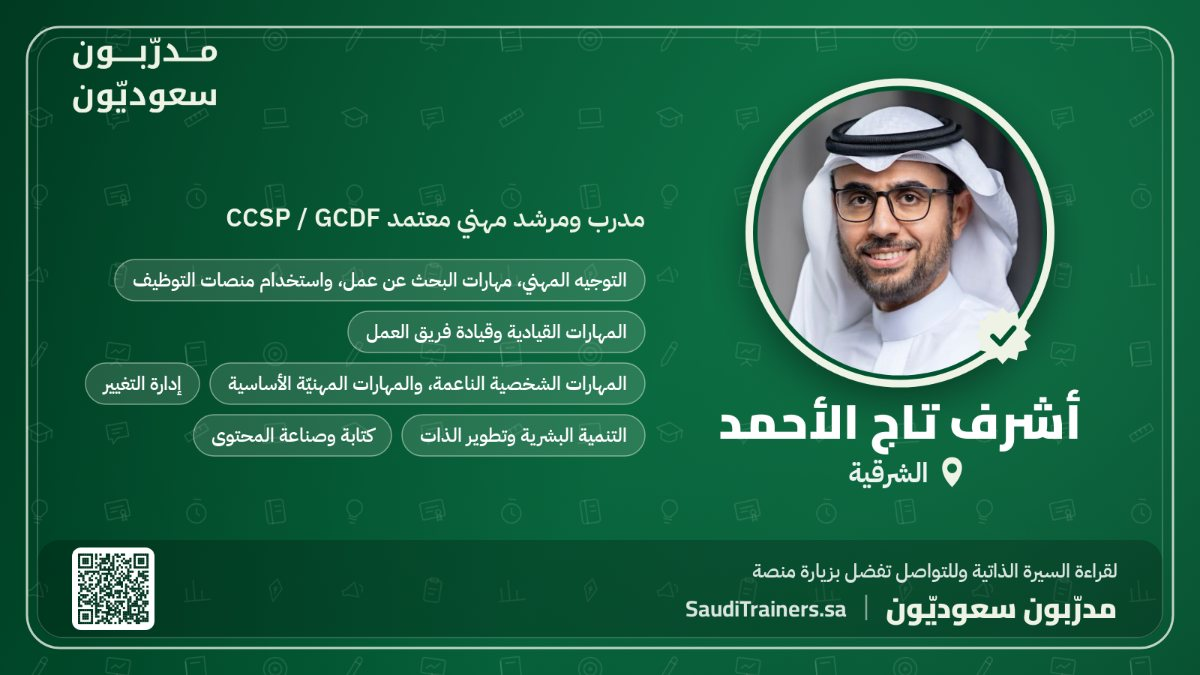
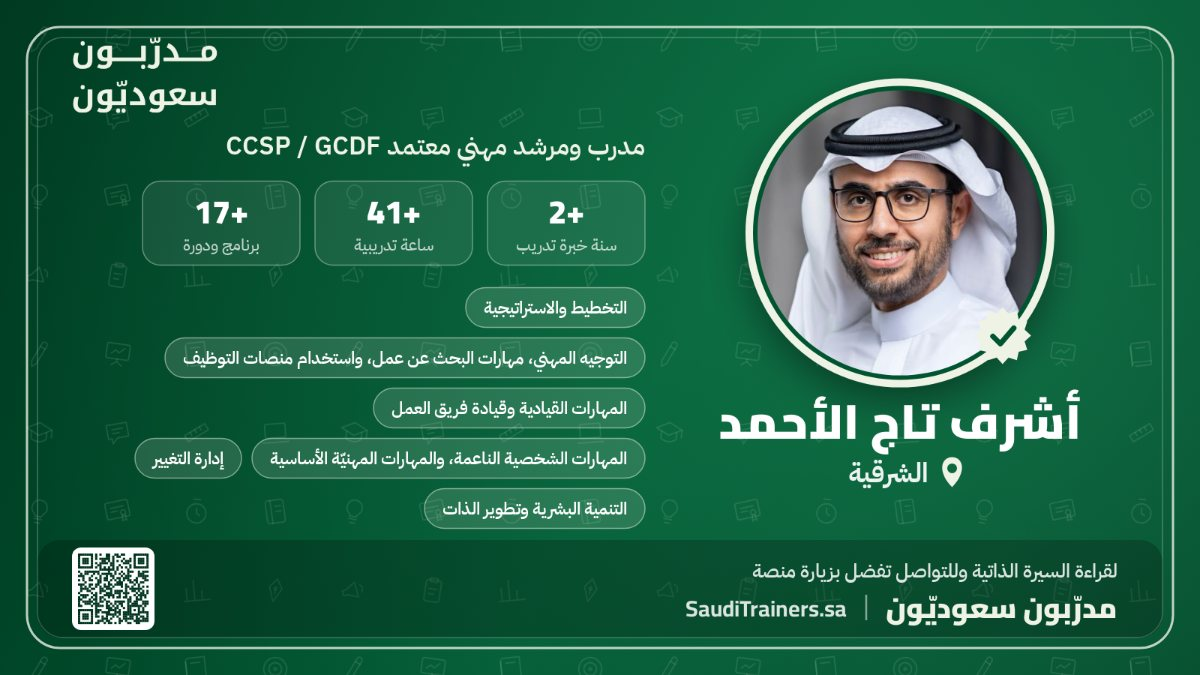
تحديث صفحات مشاركة المدربين [skip ci]

diff --git a/t/asharaf-alahmed/index.html b/t/asharaf-alahmed/index.html
@@ -10,7 +10,7 @@
 <meta property="og:image" content="https://sauditrainers.sa/og/st0101.jpg"><meta property="og:image:type" content="image/jpeg"><meta property="og:image:width" content="1200"><meta property="og:image:height" content="675"><meta property="og:image:alt" content="بطاقة أشرف تاج الأحمد">
 <meta name="twitter:card" content="summary_large_image"><meta name="twitter:title" content="أشرف تاج الأحمد | مدرّبون سعوديّون"><meta name="twitter:description" content="مدرب ومرشد مهني معتمد CCSP / GCDF — المنطقة: الشرقية — منصة مدرّبون سعوديّون لتسويق خبرات المدربين السعوديين"><meta name="twitter:image" content="https://sauditrainers.sa/og/st0101.jpg">
 <meta name="theme-color" content="#005430">
-<script type="application/ld+json">{"@context":"https://schema.org","@type":"Person","name":"أشرف تاج الأحمد","jobTitle":"مدرب ومرشد مهني معتمد  CCSP / GCDF","description":"مدرب ومرشد مهني معتمد CCSP / GCDF — المنطقة: الشرقية — منصة مدرّبون سعوديّون لتسويق خبرات المدربين السعوديين","url":"https://sauditrainers.sa/t/asharaf-alahmed/","image":"https://sauditrainers.sa/og/st0101.jpg","knowsAbout":["التوجيه المهني، مهارات البحث عن عمل، واستخدام منصات التوظيف","المهارات القيادية وقيادة فريق العمل","المهارات الشخصية الناعمة، والمهارات المهنيّة الأساسية","إدارة التغيير","التنمية البشرية وتطوير الذات","كتابة وصناعة المحتوى"],"address":{"@type":"PostalAddress","addressRegion":"الشرقية","addressCountry":"SA"},"memberOf":{"@type":"Organization","name":"مدرّبون سعوديّون","url":"https://sauditrainers.sa/"}}</script>
+<script type="application/ld+json">{"@context":"https://schema.org","@type":"Person","name":"أشرف تاج الأحمد","jobTitle":"مدرب ومرشد مهني معتمد  CCSP / GCDF","description":"مدرب ومرشد مهني معتمد CCSP / GCDF — المنطقة: الشرقية — منصة مدرّبون سعوديّون لتسويق خبرات المدربين السعوديين","url":"https://sauditrainers.sa/t/asharaf-alahmed/","image":"https://sauditrainers.sa/og/st0101.jpg","knowsAbout":["التخطيط والاستراتيجية","التوجيه المهني، مهارات البحث عن عمل، واستخدام منصات التوظيف","المهارات القيادية وقيادة فريق العمل","المهارات الشخصية الناعمة، والمهارات المهنيّة الأساسية","إدارة التغيير","التنمية البشرية وتطوير الذات"],"address":{"@type":"PostalAddress","addressRegion":"الشرقية","addressCountry":"SA"},"memberOf":{"@type":"Organization","name":"مدرّبون سعوديّون","url":"https://sauditrainers.sa/"}}</script>
 <link rel="icon" type="image/png" href="../../assets/favicon.png">
 <script>location.replace('../../#/t/asharaf-alahmed' + location.search);</script>
 <noscript><meta http-equiv="refresh" content="0;url=../../#/t/asharaf-alahmed"></noscript>
@@ -18,7 +18,8 @@
 <h1>أشرف تاج الأحمد</h1>
 <p>مدرب ومرشد مهني معتمد  CCSP / GCDF</p>
 <p>المنطقة: الشرقية</p>
-<p>التخصصات: التوجيه المهني، مهارات البحث عن عمل، واستخدام منصات التوظيف، المهارات القيادية وقيادة فريق العمل، المهارات الشخصية الناعمة، والمهارات المهنيّة الأساسية، إدارة التغيير، التنمية البشرية وتطوير الذات، كتابة وصناعة المحتوى</p>
+<p>سنوات الخبرة: 2</p>
+<p>التخصصات: التخطيط والاستراتيجية، التوجيه المهني، مهارات البحث عن عمل، واستخدام منصات التوظيف، المهارات القيادية وقيادة فريق العمل، المهارات الشخصية الناعمة، والمهارات المهنيّة الأساسية، إدارة التغيير، التنمية البشرية وتطوير الذات، كتابة وصناعة المحتوى، الجودة والتميز المؤسسي، العمل التطوعي وغير الربحي، إدارة الوقت، تطوير القيادات التنفيذية، مهارات التوازن بين الحياة الوظيفية والاجتماعية، حل المشكلات، الكوتشنق</p>
 <p>مدرب ومرشد مهني معتمد CCSP / GCDF وصانع محتوى في مجال الإرشاد المهني .والتخطيط الشخصي والإستراتيجي. يمتلك خبرة مهنية تمتد لأكثر من خمسة وعشرين عامًا في مجالات القيادة التنفيذية، والهندسة، وإدارة المشاريع، والإرشاد والتدريب المهني، اكتسبها من العمل في قطاعات حيوية تشمل الطاقة، والقطاع الخاص، والقطاع غير الربحي. شغل مناصب قيادية وتنفيذية متعددة، من بينها مدير تنفيذي ورئيس قسم التخطيط والدعم الفني، وأسهم في قيادة مشاريع استراتيجية كبرى، وتطوير الأصول، ورفع كفاءة الأداء التشغيلي والمؤسسي. يتمتع بخبرة عميقة في التخطيط الاستراتيجي، وإدارة الموارد، وبناء الفرق، وتطوير الكفاءات البشرية، إلى جانب خبرته</p>
 <p><a href="../../#/t/asharaf-alahmed">فتح بطاقة المدرب في مدرّبون سعوديّون</a></p>
 </body></html>
